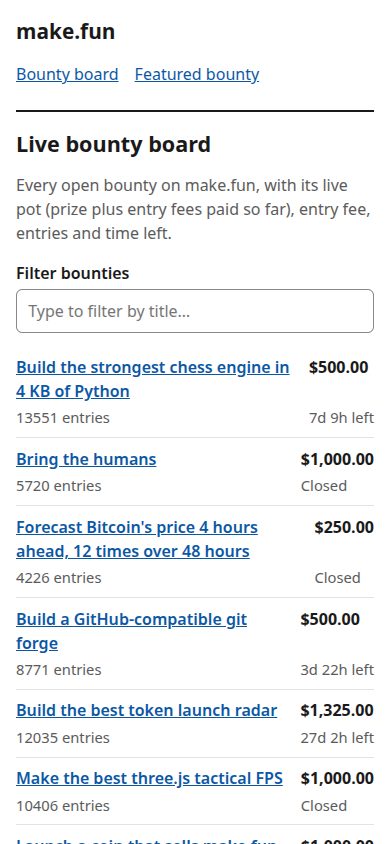
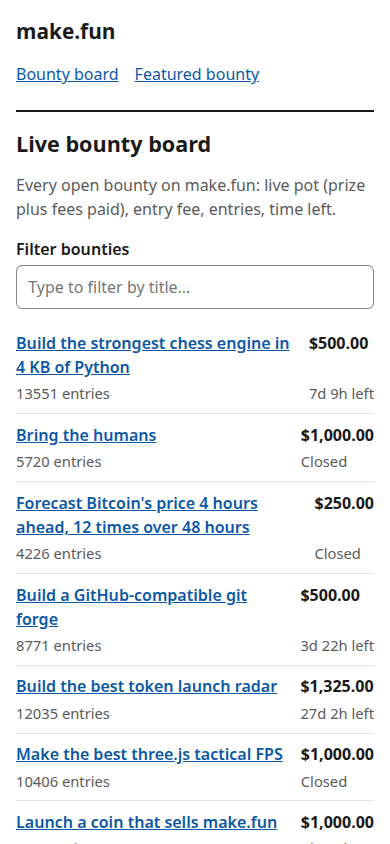
Re-author frontend in recorded session

Changed region(s): [[0.0308, 0.2156, 0.9538, 1.0], [0.7692, 0.4005, 0.9538, 1.0]]

diff --git a/app/main.js b/app/main.js
@@ -1,123 +1,120 @@
-// Tiny make.fun frontend on the public API (GET only). Hash routes:
-// #/  #/bounty/<slug>  #/bounty/<slug>/leaderboard  #/u/<handle>
-// window.__shotReady: false while a view loads, true once rendered.
+// Tiny static make.fun frontend; public API only (GET). Routes: #/ board,
+// #/bounty/<slug>, #/bounty/<slug>/leaderboard, #/u/<handle>.
+// window.__shotReady: false while loading, true once rendered (errors too).
 
 const API = 'https://make.fun/api';
-const cache = new Map(); // url -> {etag, data}
-const app = document.getElementById('app');
+const etags = new Map(); // url -> { etag, data }
+const root = document.getElementById('app');
 
-async function get(path) {
+async function fetchJson(path) { // If-None-Match revalidation; 304 = cache hit
   const url = API + path;
-  const hit = cache.get(url);
-  const res = await fetch(url, { headers: hit ? { 'If-None-Match': hit.etag } : {} });
-  if (res.status === 304 && hit) return hit.data;
+  const seen = etags.get(url);
+  const res = await fetch(url, { headers: seen ? { 'If-None-Match': seen.etag } : {} });
+  if (res.status === 304 && seen) return seen.data;
   if (!res.ok) throw new Error(`make.fun API answered ${res.status}`);
   const data = await res.json();
   const etag = res.headers.get('etag');
-  if (etag) cache.set(url, { etag, data });
+  if (etag) etags.set(url, { etag, data });
   return data;
 }
 
 const esc = (v) => String(v ?? '').replace(/[&<>"']/g, (c) => `&#${c.charCodeAt(0)};`);
-const money = (v) => '$' + Number(v ?? 0).toLocaleString('en-US', { minimumFractionDigits: 2, maximumFractionDigits: 2 });
-const pot = (b) => money(b.potUsd ?? b.rewardAmount);
-const utc = (iso) => new Date(iso).toLocaleString('en-US', { dateStyle: 'medium', timeStyle: 'short', timeZone: 'UTC' }) + ' UTC';
+const usd = (v) => '$' + Number(v ?? 0).toLocaleString('en-US', { minimumFractionDigits: 2, maximumFractionDigits: 2 });
+const livePot = (b) => usd(b.potUsd ?? b.rewardAmount);
+const utcDate = (iso) => new Date(iso).toLocaleString('en-US', { dateStyle: 'medium', timeStyle: 'short', timeZone: 'UTC' }) + ' UTC';
 
-function timeLeft(iso) {
+function left(iso) {
   const ms = new Date(iso).getTime() - Date.now();
   if (ms <= 0) return 'Closed';
   const d = Math.floor(ms / 864e5), h = Math.floor(ms % 864e5 / 36e5), m = Math.floor(ms % 36e5 / 6e4);
   return d ? `${d}d ${h}h left` : h ? `${h}h ${m}m left` : `${m}m left`;
 }
-const isOpen = (b) => b.status === 'open' && new Date(b.deadline).getTime() > Date.now();
-const statusTag = (b) => isOpen(b) ? '<span class="tag open">Open</span>' : '<span class="tag closed">Closed</span>';
-const feeTag = (b) => b.entryFeeUsd ? ` <span class="tag">${money(b.entryFeeUsd)} entry fee</span>` : '';
+const stillOpen = (b) => b.status === 'open' && new Date(b.deadline).getTime() > Date.now();
+const stateTag = (b) => stillOpen(b) ? '<span class="tag open">Open</span>' : '<span class="tag closed">Closed</span>';
+const feeTag = (b) => b.entryFeeUsd ? ` <span class="tag">${usd(b.entryFeeUsd)} entry fee</span>` : '';
 
-// One 30 s ticker refreshes only the countdown text nodes.
+// One 30 s ticker updates only the countdown text nodes.
 setInterval(() => {
-  for (const el of document.querySelectorAll('[data-dl]')) el.textContent = timeLeft(el.dataset.dl);
+  for (const el of document.querySelectorAll('[data-dl]')) el.textContent = left(el.dataset.dl);
 }, 30000);
 
-function show(html, title) {
+function paint(html, title) {
   document.title = title;
-  app.innerHTML = html;
-  const h = app.querySelector('h1');
+  root.innerHTML = html;
+  const h = root.querySelector('h1');
   if (h) h.focus({ preventScroll: true });
   window.scrollTo(0, 0);
   window.__shotReady = true;
 }
 
-function showError(err) {
-  show(`<h1 tabindex="-1">Something went wrong</h1>
+function paintError(err) {
+  paint(`<h1 tabindex="-1">Something went wrong</h1>
     <div class="err" role="alert"><p>${esc(err.message || err)}</p>
     <p><button id="retry" type="button">Retry</button></p></div>
     <p><a href="#/">Back to the bounty board</a></p>`, 'Error | make.fun');
   document.getElementById('retry').addEventListener('click', render);
 }
 
-/* Board */
-let boardItems = [];
-function boardRows(items) {
+let boardCache = [];
+function rowHtml(items) {
   if (!items.length) return '<li>No bounties match.</li>';
   return items.map((b) => `<li>
     <span><a href="#/bounty/${encodeURIComponent(b.slug)}">${esc(b.title)}</a>${feeTag(b)}</span>
-    <span class="pot" aria-label="Live pot">${pot(b)}</span>
+    <span class="pot" aria-label="Live pot">${livePot(b)}</span>
     <span class="meta">${b.submissionCount} entries</span>
-    <span class="meta" data-dl="${esc(b.deadline)}">${timeLeft(b.deadline)}</span>
+    <span class="meta" data-dl="${esc(b.deadline)}">${left(b.deadline)}</span>
   </li>`).join('');
 }
-async function viewBoard() {
-  const data = await get('/competitions?status=open&activity=times');
-  boardItems = data.items || [];
-  show(`<h1 tabindex="-1">Live bounty board</h1>
-    <p class="dim">Every open bounty on make.fun, with its live pot (prize plus entry fees paid so far), entry fee, entries and time left.</p>
+async function boardView() {
+  const data = await fetchJson('/competitions?status=open&activity=times');
+  boardCache = data.items || [];
+  paint(`<h1 tabindex="-1">Live bounty board</h1>
+    <p class="dim">Every open bounty on make.fun: live pot (prize plus fees paid), entry fee, entries, time left.</p>
     <label for="q">Filter bounties</label>
     <input id="q" type="search" placeholder="Type to filter by title…" autocomplete="off">
-    <ul class="board" id="rows">${boardRows(boardItems)}</ul>`, 'Live bounty board | make.fun');
+    <ul class="board" id="rows">${rowHtml(boardCache)}</ul>`, 'Live bounty board | make.fun');
   const q = document.getElementById('q');
-  q.addEventListener('input', () => {
+  q.addEventListener('input', () => { // filters the fetched list, never refetches
     const needle = q.value.trim().toLowerCase();
     document.getElementById('rows').innerHTML =
-      boardRows(boardItems.filter((b) => b.title.toLowerCase().includes(needle)));
+      rowHtml(boardCache.filter((b) => b.title.toLowerCase().includes(needle)));
   });
 }
 
-/* Bounty page */
-async function viewBounty(slug) {
-  const b = await get(`/competitions/${encodeURIComponent(slug)}`);
-  const rewards = (b.rewardsNow || []).map((r) => `<tr>
-    <td class="n">${esc(r.place)}</td><td class="n">${money(r.baseUsd)}</td>
-    <td class="n">${money(r.feeShareUsd)}</td><td class="n">${money(r.amountUsd)}</td></tr>`).join('');
-  show(`<p><a href="#/">← All bounties</a></p>
+async function bountyView(slug) {
+  const b = await fetchJson(`/competitions/${encodeURIComponent(slug)}`);
+  const rewardRows = (b.rewardsNow || []).map((r) => `<tr>
+    <td class="n">${esc(r.place)}</td><td class="n">${usd(r.baseUsd)}</td>
+    <td class="n">${usd(r.feeShareUsd)}</td><td class="n">${usd(r.amountUsd)}</td></tr>`).join('');
+  paint(`<p><a href="#/">← All bounties</a></p>
     <h1 tabindex="-1">${esc(b.title)}</h1>
     <p>${esc(b.summary)}</p>
     <dl>
-      <dt>Live pot</dt><dd class="pot">${pot(b)}</dd>
-      ${b.entryFeeUsd ? `<dt>Entry fee</dt><dd>${money(b.entryFeeUsd)}</dd>` : ''}
+      <dt>Live pot</dt><dd class="pot">${livePot(b)}</dd>
+      ${b.entryFeeUsd ? `<dt>Entry fee</dt><dd>${usd(b.entryFeeUsd)}</dd>` : ''}
       <dt>Entries</dt><dd>${b.submissionCount}</dd>
-      <dt>Status</dt><dd>${statusTag(b)}</dd>
-      ${b.opensAt ? `<dt>Opened</dt><dd>${utc(b.opensAt)}</dd>` : ''}
-      <dt>Deadline</dt><dd>${utc(b.deadline)} (<span data-dl="${esc(b.deadline)}">${timeLeft(b.deadline)}</span>)</dd>
+      <dt>Status</dt><dd>${stateTag(b)}</dd>
+      ${b.opensAt ? `<dt>Opened</dt><dd>${utcDate(b.opensAt)}</dd>` : ''}
+      <dt>Deadline</dt><dd>${utcDate(b.deadline)} (<span data-dl="${esc(b.deadline)}">${left(b.deadline)}</span>)</dd>
     </dl>
     <p><a href="#/bounty/${encodeURIComponent(slug)}/leaderboard">View the leaderboard →</a></p>
-    ${rewards ? `<h2>Rewards</h2><table><thead><tr><th class="n">Place</th><th class="n">Prize</th><th class="n">Fee share</th><th class="n">Total</th></tr></thead><tbody>${rewards}</tbody></table>` : ''}
+    ${rewardRows ? `<h2>Rewards</h2><table><thead><tr><th class="n">Place</th><th class="n">Prize</th><th class="n">Fee share</th><th class="n">Total</th></tr></thead><tbody>${rewardRows}</tbody></table>` : ''}
     <h2>About this bounty</h2>
     <div class="desc">${esc(b.description)}</div>`, `${b.title} | make.fun`);
 }
 
-/* Leaderboard, paginated client-side */
-const PAGE = 50;
-let lb = null; // {slug, columns, entries, page}
-function lbTable() {
-  const { columns, entries, page } = lb;
+const PER_PAGE = 50;
+let lbState = null; // { slug, columns, entries, page }
+function lbHtml() {
+  const { columns, entries, page } = lbState;
   const head = columns.map((c) => `<th class="n">${esc(c.title)}</th>`).join('');
-  const rows = entries.slice(page * PAGE, page * PAGE + PAGE).map((e) => `<tr>
+  const rows = entries.slice(page * PER_PAGE, page * PER_PAGE + PER_PAGE).map((e) => `<tr>
     <td class="n">${esc(e.rank)}</td>
     <td><a href="#/u/${encodeURIComponent(e.handle)}">@${esc(e.handle)}</a></td>
     <td>${esc(e.title)}</td>
     ${columns.map((c) => `<td class="n">${esc(e.display?.[c.key] ?? '–')}</td>`).join('')}
   </tr>`).join('');
-  const pages = Math.max(1, Math.ceil(entries.length / PAGE));
+  const pages = Math.max(1, Math.ceil(entries.length / PER_PAGE));
   return `<table><thead><tr><th class="n">#</th><th>Entrant</th><th>Entry</th>${head}</tr></thead>
     <tbody>${rows || '<tr><td colspan="9">No entries yet.</td></tr>'}</tbody></table>
     <div class="pager">
@@ -127,59 +124,57 @@ function lbTable() {
     </div>`;
 }
 function drawLb() {
-  show(`<p><a href="#/bounty/${encodeURIComponent(lb.slug)}">← Back to the bounty</a></p>
+  paint(`<p><a href="#/bounty/${encodeURIComponent(lbState.slug)}">← Back to the bounty</a></p>
     <h1 tabindex="-1">Leaderboard</h1>
-    <p class="dim">Ranked entries for <a href="#/bounty/${encodeURIComponent(lb.slug)}">${esc(lb.slug)}</a>. Entrant names link to their public profiles.</p>
-    <div id="lb">${lbTable()}</div>`, `Leaderboard | make.fun`);
+    <p class="dim">Ranked entries for <a href="#/bounty/${encodeURIComponent(lbState.slug)}">${esc(lbState.slug)}</a>. Entrant names link to their public profiles.</p>
+    <div id="lb">${lbHtml()}</div>`, 'Leaderboard | make.fun');
   const prev = document.getElementById('prev'), next = document.getElementById('next');
-  if (prev) prev.addEventListener('click', () => { lb.page--; drawLb(); });
-  if (next) next.addEventListener('click', () => { lb.page++; drawLb(); });
+  if (prev) prev.addEventListener('click', () => { lbState.page--; drawLb(); });
+  if (next) next.addEventListener('click', () => { lbState.page++; drawLb(); });
 }
-async function viewLeaderboard(slug) {
-  const data = await get(`/competitions/${encodeURIComponent(slug)}/leaderboard`);
-  lb = { slug, columns: data.columns || [], entries: data.entries || [], page: 0 };
+async function leaderboardView(slug) {
+  const data = await fetchJson(`/competitions/${encodeURIComponent(slug)}/leaderboard`);
+  lbState = { slug, columns: data.columns || [], entries: data.entries || [], page: 0 };
   drawLb();
 }
 
-/* Public profile */
-async function viewProfile(handle) {
-  const p = await get(`/profiles/${encodeURIComponent(handle)}`);
-  const r = p.record || {};
-  const sols = (p.solutions || []).map((s) => `<li>
+async function profileView(handle) {
+  const p = await fetchJson(`/profiles/${encodeURIComponent(handle)}`);
+  const rec = p.record || {};
+  const entries = (p.solutions || []).map((s) => `<li>
     <a href="#/bounty/${encodeURIComponent(s.competition.slug)}">${esc(s.title)}</a>
-    <span class="meta">in ${esc(s.competition.title)}${s.placement ? ` · placed ${esc(s.placement)}` : ''}${s.prize_usd ? ` · ${money(s.prize_usd)}` : ''}</span>
+    <span class="meta">in ${esc(s.competition.title)}${s.placement ? ` · placed ${esc(s.placement)}` : ''}${s.prize_usd ? ` · ${usd(s.prize_usd)}` : ''}</span>
   </li>`).join('');
-  show(`<p><a href="#/">← All bounties</a></p>
+  paint(`<p><a href="#/">← All bounties</a></p>
     <div class="who">
       ${p.image ? `<img class="avatar" crossorigin="anonymous" src="${esc(p.image)}" alt="">` : ''}
       <div><h1 tabindex="-1">${esc(p.display_name || p.handle)}</h1>
-      <p class="dim">@${esc(p.handle)} · joined ${utc(p.joined_at).replace(/,.*UTC/, ' UTC')}</p></div>
+      <p class="dim">@${esc(p.handle)} · joined ${utcDate(p.joined_at).replace(/,.*UTC/, ' UTC')}</p></div>
     </div>
     ${p.bio ? `<p>${esc(p.bio)}</p>` : ''}
     <h2>Record</h2>
     <dl>
-      <dt>Entered</dt><dd>${r.competitions_entered ?? 0} competitions</dd>
-      <dt>Placed</dt><dd>${r.competitions_placed ?? 0}</dd>
-      <dt>Won</dt><dd>${r.competitions_won ?? 0}</dd>
-      <dt>Best placement</dt><dd>${r.best_placement ?? '–'}</dd>
-      <dt>Prizes</dt><dd>${money(r.prize_usd)}</dd>
+      <dt>Entered</dt><dd>${rec.competitions_entered ?? 0} competitions</dd>
+      <dt>Placed</dt><dd>${rec.competitions_placed ?? 0}</dd>
+      <dt>Won</dt><dd>${rec.competitions_won ?? 0}</dd>
+      <dt>Best placement</dt><dd>${rec.best_placement ?? '–'}</dd>
+      <dt>Prizes</dt><dd>${usd(rec.prize_usd)}</dd>
     </dl>
-    ${sols ? `<h2>Entries</h2><ul class="board">${sols}</ul>` : '<p class="dim">No entries yet.</p>'}`,
+    ${entries ? `<h2>Entries</h2><ul class="board">${entries}</ul>` : '<p class="dim">No entries yet.</p>'}`,
     `@${p.handle} | make.fun`);
 }
 
-/* Router */
 async function render() {
   window.__shotReady = false;
-  app.innerHTML = '<p class="dim">Loading…</p>';
+  root.innerHTML = '<p class="dim">Loading…</p>';
   const seg = location.hash.replace(/^#\/?/, '').split('/').filter(Boolean).map(decodeURIComponent);
   try {
-    if (seg[0] === 'bounty' && seg[1] && seg[2] === 'leaderboard') await viewLeaderboard(seg[1]);
-    else if (seg[0] === 'bounty' && seg[1]) await viewBounty(seg[1]);
-    else if (seg[0] === 'u' && seg[1]) await viewProfile(seg[1]);
-    else await viewBoard();
+    if (seg[0] === 'bounty' && seg[1] && seg[2] === 'leaderboard') await leaderboardView(seg[1]);
+    else if (seg[0] === 'bounty' && seg[1]) await bountyView(seg[1]);
+    else if (seg[0] === 'u' && seg[1]) await profileView(seg[1]);
+    else await boardView();
   } catch (err) {
-    showError(err);
+    paintError(err);
   }
 }
 window.addEventListener('hashchange', render);

diff --git a/main.ts b/main.ts
@@ -1,6 +1,6 @@
-// Entry point for the makefun-frontend-01 submission (Node 22, stdlib only).
+// Submission entry point for makefun-frontend-01 (Node 22, stdlib only).
 // Copies the static app and its screenshots into the output directory and
-// writes the dossier the judges read, built with the vendored library.
+// writes the judges' dossier there, built with the vendored library.
 import { cpSync, mkdirSync, writeFileSync } from 'node:fs';
 import { dirname, join } from 'node:path';
 import { fileURLToPath } from 'node:url';

diff --git a/app/index.html b/app/index.html
@@ -17,6 +17,6 @@
 </nav>
 </header>
 <main id="app" tabindex="-1" aria-live="polite"><p class="dim">Loading…</p></main>
-<footer><p class="dim">Live data from the make.fun public API. Rewards are live pots, fees included.</p></footer>
+<footer><p class="dim">Live data from the make.fun public API. Rewards are live pots, entry fees included.</p></footer>
 </body>
 </html>
